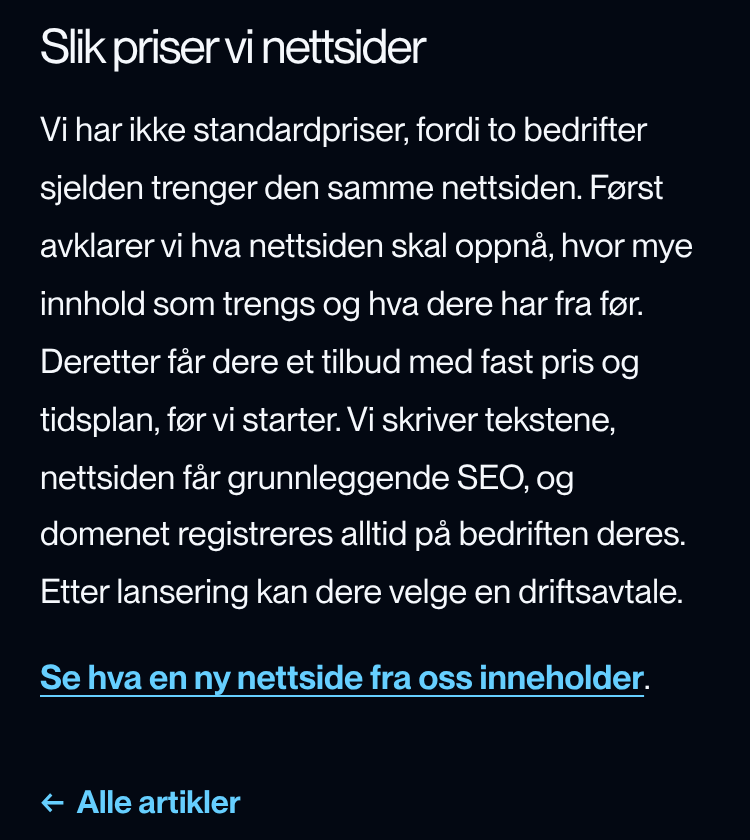
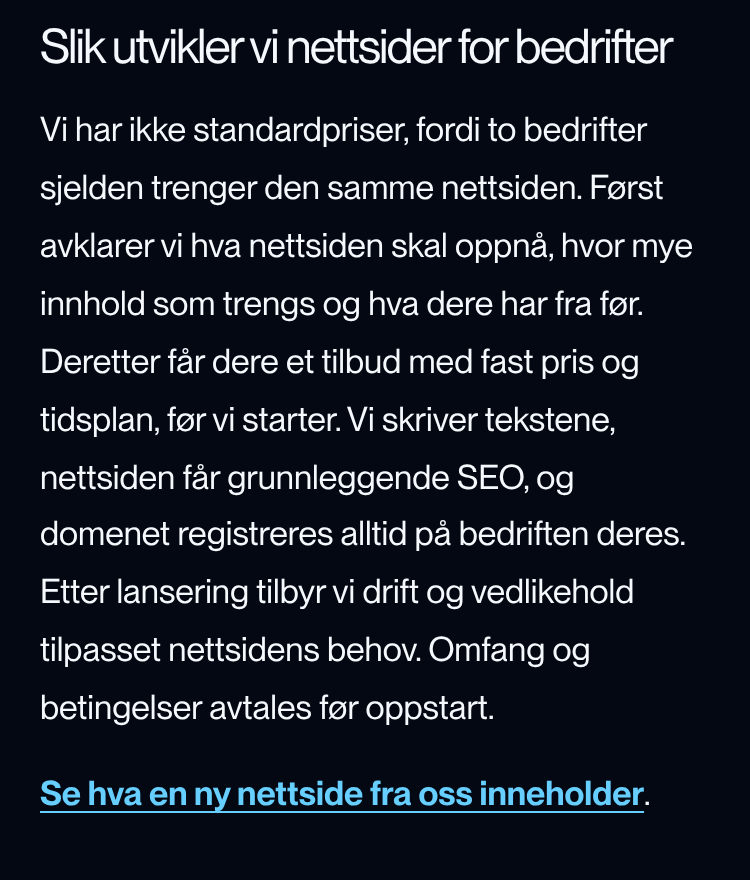
Innhold: ChatGPTs justeringer av pristekstene (runde 2)
- /websites: ny åpningssetning («Hver nettside utvikles med utgangspunkt i
  bedriftens behov, mål og ambisjoner.») og ny driftstekst («Etter lansering
  tilbyr vi drift og vedlikehold tilpasset nettsidens behov. Omfang og
  betingelser avtales før oppstart.»). FAQ «Hva koster drift?» er omskrevet
  så den ikke gjentar prisseksjonen ordrett.
- Prisartikkelen: overskriften «Slik utvikler vi nettsider for bedrifter» og
  samme driftstekst.
- «Fast pris før oppstart» og artikkeldatoene er beholdt.

Claude-Session: https://claude.ai/code/session_015EXqLHW6hJy5GsFMAYumkk

Changed region(s): [[0.0307, 0.1238, 0.92, 0.8357], [0.0613, 0.031, 0.8893, 0.0929], [0.0613, 0.8667, 0.8587, 0.9905]]

diff --git a/src/sider/tjenester-innhold.js b/src/sider/tjenester-innhold.js
@@ -36,14 +36,14 @@ export const tjenesteSider = [
     ],
     pris: {
       tittel: "Hva påvirker prisen?",
-      tekst: "Vi lager ikke nettsider etter en fast pakke. Prisen settes etter hva nettsiden skal gjøre for bedriften, og dere får et tilbud med fast pris når vi har avklart behovet, før arbeidet starter. Prisen avhenger mest av:",
+      tekst: "Hver nettside utvikles med utgangspunkt i bedriftens behov, mål og ambisjoner. Når vi har avklart hva nettsiden skal gjøre, får dere et tilbud med fast pris før arbeidet starter. Prisen avhenger mest av:",
       punkter: [
         "hvor mange sider og hvor mye tekst nettsiden trenger",
         "om logo, farger og bilder finnes, eller må lages",
         "funksjoner og integrasjoner, for eksempel booking eller skjema koblet til andre systemer",
         "om innhold skal flyttes fra en eksisterende nettside",
       ],
-      etter: "Etter lansering kan dere velge en driftsavtale. Den dekker hosting, sikkerhetskopi, at nettsiden holdes oppe, og små tekstendringer inntil 30 minutter i måneden. Prisen for drift får dere sammen med tilbudet. Domenet registreres alltid på bedriften deres.",
+      etter: "Etter lansering tilbyr vi drift og vedlikehold tilpasset nettsidens behov. Omfang og betingelser avtales før oppstart. Domenet registreres alltid på bedriften deres.",
       lenke: ["Les mer om hva en nettside koster", "/blog/hvor-mye-koster-en-nettside"],
     },
     eksempel: {
@@ -61,7 +61,7 @@ export const tjenesteSider = [
       ["Hvor lang tid tar det?", "Det avhenger av omfanget og hvor raskt vi får innspill fra dere. Dere får en tidsplan sammen med prisen, før vi starter."],
       ["Hvordan bygger dere nettsiden?", "Vi bygger nettsiden i ren kode og bruker AI-verktøy i utviklingen. Det gjør arbeidet raskere og nettsiden rask å laste. Vi skriver tekstene og går gjennom alt før lansering."],
       ["Kan vi endre tekst på nettsiden selv?", "Nettsiden har ikke et eget redigeringsverktøy. Endringer gjør vi for dere, enten som del av driftsavtalen eller som egne oppdrag."],
-      ["Hva koster drift?", "Driftsavtalen dekker hosting, sikkerhetskopi, at nettsiden holdes oppe, og små tekstendringer inntil 30 minutter i måneden. Prisen avtales sammen med nettsideprosjektet. Uten avtale betaler dere hosting og domene direkte, og vi tar betalt per oppdrag når dere vil endre noe."],
+      ["Hva koster drift?", "Det avhenger av hva nettsiden trenger. Drift og vedlikehold tilpasses nettsiden, og omfang og betingelser avtales før oppstart. Uten avtale betaler dere hosting og domene direkte, og vi tar betalt per oppdrag når dere vil endre noe."],
       ["Hvem eier nettsiden og domenet?", "Domenet registreres alltid på bedriften deres, også når vi tar oss av driften. Ønsker dere koden til nettsiden, får dere den når dere ber om det."],
       ["Kan dere forbedre nettsiden vi har, i stedet for å lage en ny?", "Ja, hvis det er det beste for dere. Noen ganger er det nok å skrive om tekstene, forbedre strukturen eller rette tekniske feil. Vi sier fra hvis vi mener en ny nettside ikke er nødvendig."],
       ["Kommer vi høyt opp på Google?", "Nettsiden får grunnleggende SEO: vi undersøker hva kundene deres søker etter, og bruker relevante søkeord der det passer. Plassering avhenger også av konkurranse, innhold og arbeid over tid, og ingen kan garantere bestemte plasseringer. Ønsker dere å jobbe videre med synlighet, kan vi hjelpe med [SEO](/seo)."],

diff --git a/docs/innhold-ingen-egne-priser/FOR-ETTER.md b/docs/innhold-ingen-egne-priser/FOR-ETTER.md
@@ -1,34 +1,36 @@
-# Ingen egne priser på nettsiden – før/etter til godkjenning
+# Ingen egne priser på nettsiden – før/etter
 
-Innholdsregel godkjent 27.10.2026: **Cideas egne priser vises ikke offentlig på nettsiden.**
-Gren `claude/ingen-egne-priser`, basert på `main` @ `7e9875b`. Ikke publisert.
+Innholdsregel godkjent 27.10.2026: **Cideas egne priser vises ikke offentlig på nettsiden.** Pedagogiske artikler kan
+fortsatt forklare generelle markedspriser.
+Gren `claude/ingen-egne-priser` (Draft PR #21), basert på `main` @ `7e9875b`. Ikke publisert.
+
+Runde 2 (27.10.2026) følger ChatGPTs anbefalinger: «fast pris før oppstart» beholdes, ny driftstekst, ny overskrift i
+prisartikkelen, ny åpningssetning på /websites, og publiseringsdatoene på artiklene er ikke endret.
 
 ## Gjennomgang
-
-Søkt etter kronebeløp, «kr», «kroner», «eks. mva», «pris» og «koster» i alle sider og artikler.
 
 | Side | Cideas egne priser før | Endret |
 |---|---|---|
 | Forsiden (`/`) | Ingen | Nei |
 | `/tjenester` | Ingen | Nei |
-| `/websites` | 14 900 kr i prisseksjonen og i FAQ, 490 kr/mnd i prisseksjonen og i FAQ | **Ja** (4 tekster) |
+| `/websites` | 14 900 kr og 490 kr/mnd i prisseksjonen og i FAQ | **Ja** (4 tekster) |
 | `/branding`, `/seo`, `/digital-marketing` | Ingen | Nei |
 | `/om-oss`, `/kontakt`, `/personvern`, takk- og 404-siden | Ingen («fast pris» som arbeidsmåte, ikke beløp) | Nei |
-| `/blog/hvor-mye-koster-en-nettside` | 14 900 kr, 490 kr/mnd og regneeksempel 20 780 kr | **Ja** (1 avsnitt erstattet, regneeksempelet fjernet) |
-| `/blog/webbyra-abonnement-eller-gjore-det-selv` | 14 900 kr | **Ja** (1 setning) |
-| Øvrige artikler | Ingen (bare generelle råd om pris) | Nei |
+| `/blog/hvor-mye-koster-en-nettside` | 14 900 kr, 490 kr/mnd og regneeksempel 20 780 kr | **Ja** (ett avsnitt med ny overskrift; regneeksempelet er fjernet) |
+| `/blog/webbyra-abonnement-eller-gjore-det-selv` | 14 900 kr | **Ja** (én setning) |
+| Øvrige artikler | Ingen | Nei |
 
-Beholdt: de generelle delene av artiklene om markedspriser, prismodeller og hva som påvirker prisen. Formuleringer om
-**fast pris før oppstart** er beholdt, fordi de beskriver arbeidsmåten, ikke et beløp (se spørsmål 1 under).
+Kontroll etter endringen: ingen kronebeløp på noen side i bygget, heller ikke i artiklene. Den generelle
+markedsbeskrivelsen i prisartikkelen («fra noen hundre kroner i måneden for et abonnement til store prosjekter …») er beholdt.
 
-## Før og etter
+## Endelig tekst
 
 ### 1. `/websites` – «Hva påvirker prisen?», innledning
 **Før:** En liten bedriftsnettside på opptil omtrent fem sider, med tekst, starter fra 14 900 kr eks. mva. Større nettsider får
 fast pris når vi har avklart behovet, så dere vet hva prosjektet koster før vi starter. Prisen avhenger mest av:
 
-**Etter:** Vi lager ikke nettsider etter en fast pakke. Prisen settes etter hva nettsiden skal gjøre for bedriften, og dere får et
-tilbud med fast pris når vi har avklart behovet, før arbeidet starter. Prisen avhenger mest av:
+**Etter:** Hver nettside utvikles med utgangspunkt i bedriftens behov, mål og ambisjoner. Når vi har avklart hva nettsiden skal
+gjøre, får dere et tilbud med fast pris før arbeidet starter. Prisen avhenger mest av:
 
 (Punktlisten under er uendret.)
 
@@ -36,9 +38,8 @@ tilbud med fast pris når vi har avklart behovet, før arbeidet starter. Prisen 
 **Før:** Etter lansering kan dere velge en driftsavtale fra 490 kr i måneden eks. mva. Den dekker hosting, sikkerhetskopi, at
 nettsiden holdes oppe, og små tekstendringer inntil 30 minutter i måneden. Domenet registreres alltid på bedriften deres.
 
-**Etter:** Etter lansering kan dere velge en driftsavtale. Den dekker hosting, sikkerhetskopi, at nettsiden holdes oppe, og små
-tekstendringer inntil 30 minutter i måneden. Prisen for drift får dere sammen med tilbudet. Domenet registreres alltid på
-bedriften deres.
+**Etter:** Etter lansering tilbyr vi drift og vedlikehold tilpasset nettsidens behov. Omfang og betingelser avtales før oppstart.
+Domenet registreres alltid på bedriften deres.
 
 ### 3. `/websites` – FAQ «Hva koster en ny nettside?»
 **Før:** En liten bedriftsnettside på opptil omtrent fem sider, med tekst, starter fra 14 900 kr eks. mva. Prisen for større
@@ -53,9 +54,10 @@ og hvordan dere sammenligner tilbud, står i artikkelen [hva en nettside koster]
 tekstendringer inntil 30 minutter i måneden. Uten avtale betaler dere hosting og domene direkte, og vi tar betalt per oppdrag
 når dere vil endre noe.
 
-**Etter:** Driftsavtalen dekker hosting, sikkerhetskopi, at nettsiden holdes oppe, og små tekstendringer inntil 30 minutter i
-måneden. Prisen avtales sammen med nettsideprosjektet. Uten avtale betaler dere hosting og domene direkte, og vi tar betalt per
-oppdrag når dere vil endre noe.
+**Etter:** Det avhenger av hva nettsiden trenger. Drift og vedlikehold tilpasses nettsiden, og omfang og betingelser avtales før
+oppstart. Uten avtale betaler dere hosting og domene direkte, og vi tar betalt per oppdrag når dere vil endre noe.
+
+(Omskrevet fra den godkjente driftsteksten, slik at prisseksjonen og FAQ-en på samme side ikke sier det samme ordrett.)
 
 ### 5. Artikkel «Hvor mye koster en nettside?» – avsnittet om Cidea
 **Før** (overskrift «Hva koster en nettside hos oss?»):
@@ -67,11 +69,11 @@ på bedriften deres.
 Et regneeksempel for det første året: en liten nettside til 14 900 kr pluss driftsavtale til 490 kr i måneden blir 20 780 kr eks.
 mva. Bruk samme regnestykke når dere sammenligner med et abonnement.
 
-**Etter** (overskrift «Slik priser vi nettsider»):
+**Etter** (overskrift «Slik utvikler vi nettsider for bedrifter»):
 Vi har ikke standardpriser, fordi to bedrifter sjelden trenger den samme nettsiden. Først avklarer vi hva nettsiden skal oppnå,
 hvor mye innhold som trengs og hva dere har fra før. Deretter får dere et tilbud med fast pris og tidsplan, før vi starter. Vi
-skriver tekstene, nettsiden får grunnleggende SEO, og domenet registreres alltid på bedriften deres. Etter lansering kan dere
-velge en driftsavtale.
+skriver tekstene, nettsiden får grunnleggende SEO, og domenet registreres alltid på bedriften deres. Etter lansering tilbyr vi
+drift og vedlikehold tilpasset nettsidens behov. Omfang og betingelser avtales før oppstart.
 
 (Regneeksempelet er fjernet. Rådet om å regne ut totalkostnaden for det første året står allerede tidligere i artikkelen.
 Lenken «Se hva en ny nettside fra oss inneholder» er beholdt.)
@@ -84,23 +86,20 @@ bedriftsnettside starter fra 14 900 kr eks. mva. Drift og vedlikehold kan avtale
 tilpasses omfanget, og dere får et tilbud når behovet er avklart. Drift og vedlikehold kan avtales etter lansering.
 
 Skjermbilder etter endring (375 px): `bilder/websites-pris.png`, `bilder/websites-faq.png`, `bilder/artikkel-pris.png`,
-`bilder/artikkel-webbyra.png`.
+`bilder/artikkel-webbyra.png`. Punktlisten i `websites-pris.png` vises uten punkttegn på denne grenen; den feilen rettes i PR #20.
 
-## Spørsmål til godkjenning
+## Merknader
 
-1. **«Fast pris før oppstart»** står fortsatt i tittel, ingress, metatittel og -beskrivelse på /websites, på /om-oss
-   («Fast pris på nettsideprosjekter»), på kontaktsiden og i artiklene. Det er et løfte om arbeidsmåte, ikke et beløp, og
-   derfor beholdt. Skal det også bort?
-2. **Nye løfter i tekstene:** «Prisen for drift får dere sammen med tilbudet» og «Prisen avtales sammen med nettsideprosjektet».
-   Stemmer det med hvordan dere faktisk gir tilbud?
-3. **«Oppdatert 26. oktober 2026»** på de to artiklene er ikke endret. Skal datoen settes til godkjenningsdatoen?
-4. Overskriften i prisartikkelen er endret fra «Hva koster en nettside hos oss?» til «Slik priser vi nettsider». Godkjent?
+- Detaljene om hva driftsavtalen dekker (hosting, sikkerhetskopi, oppetid, 30 minutter tekstendringer i måneden) står ikke
+  lenger i prisseksjonen eller i FAQ-en, i tråd med den nye driftsteksten. Hosting og tekstendringer nevnes fortsatt andre steder
+  på /websites («Kan vi endre tekst på nettsiden selv?», «Etter lansering»).
+- «Oppdatert 26. oktober 2026» på de to artiklene er ikke endret (punkt 5 fra ChatGPT).
+- Avsnittet under «Slik utvikler vi nettsider for bedrifter» åpner fortsatt med «Vi har ikke standardpriser …». Det kan justeres
+  om overskriften og første setning skal henge tettere sammen.
 
 ## Teknisk
 
 - Endret kun tekst i `src/sider/tjenester-innhold.js`, `blog/hvor-mye-koster-en-nettside.md` og
   `blog/webbyra-abonnement-eller-gjore-det-selv.md`. Ingen endringer i design, komponenter eller funksjoner.
-- Ny test `tests/ingen-egne-priser.test.mjs` (leser bare `dist/`): ingen kronebeløp på sider utenfor /blog/, og ingen av de
-  tidligere beløpene noe sted. Mot `main`: FEIL på 3 sider (/websites og de to artiklene). Etter endringen: OK.
-- `npm run build` OK (20 sider). `node tests/reference-static.mjs --production` 0 FAIL (låst Gullkornet-tekst uendret).
-  De fire sidene ble åpnet i Chromium ved 375 px uten konsollfeil. Firefox/Safari: IKKE KJØRT.
+- `tests/ingen-egne-priser.test.mjs` (leser bare `dist/`): ingen kronebeløp på sider utenfor /blog/, og ingen av de
+  tidligere beløpene noe sted. Mot `main`: FEIL på 3 sider. Etter endringen: OK.

diff --git a/blog/hvor-mye-koster-en-nettside.md b/blog/hvor-mye-koster-en-nettside.md
@@ -59,8 +59,8 @@ Vurderer dere flere typer løsninger? Les [webbyrå, abonnement eller gjøre det
 
 Vurder nettsiden ut fra jobben den skal gjøre. Skal den gi flere henvendelser, må budskap, struktur, synlighet og kontaktpunkter bygges rundt det målet. En billig nettside som ikke blir funnet eller forstått, kan ende opp med å koste mer enn en som er godt planlagt. Samtidig trenger ikke alle bedrifter et stort prosjekt. Noen ganger holder det å forbedre det dere har.
 
-## Slik priser vi nettsider
+## Slik utvikler vi nettsider for bedrifter
 
-Vi har ikke standardpriser, fordi to bedrifter sjelden trenger den samme nettsiden. Først avklarer vi hva nettsiden skal oppnå, hvor mye innhold som trengs og hva dere har fra før. Deretter får dere et tilbud med fast pris og tidsplan, før vi starter. Vi skriver tekstene, nettsiden får grunnleggende SEO, og domenet registreres alltid på bedriften deres. Etter lansering kan dere velge en driftsavtale.
+Vi har ikke standardpriser, fordi to bedrifter sjelden trenger den samme nettsiden. Først avklarer vi hva nettsiden skal oppnå, hvor mye innhold som trengs og hva dere har fra før. Deretter får dere et tilbud med fast pris og tidsplan, før vi starter. Vi skriver tekstene, nettsiden får grunnleggende SEO, og domenet registreres alltid på bedriften deres. Etter lansering tilbyr vi drift og vedlikehold tilpasset nettsidens behov. Omfang og betingelser avtales før oppstart.
 
 [Se hva en ny nettside fra oss inneholder](/websites).
